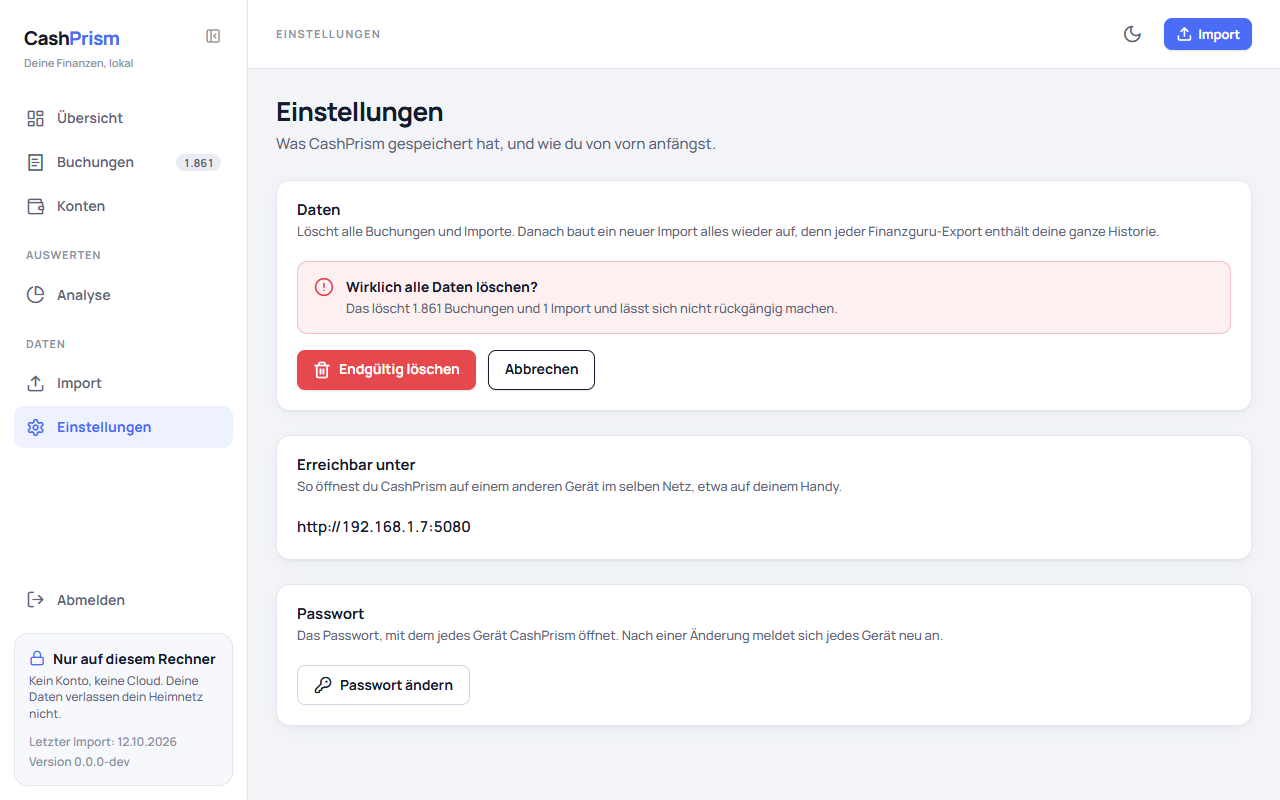
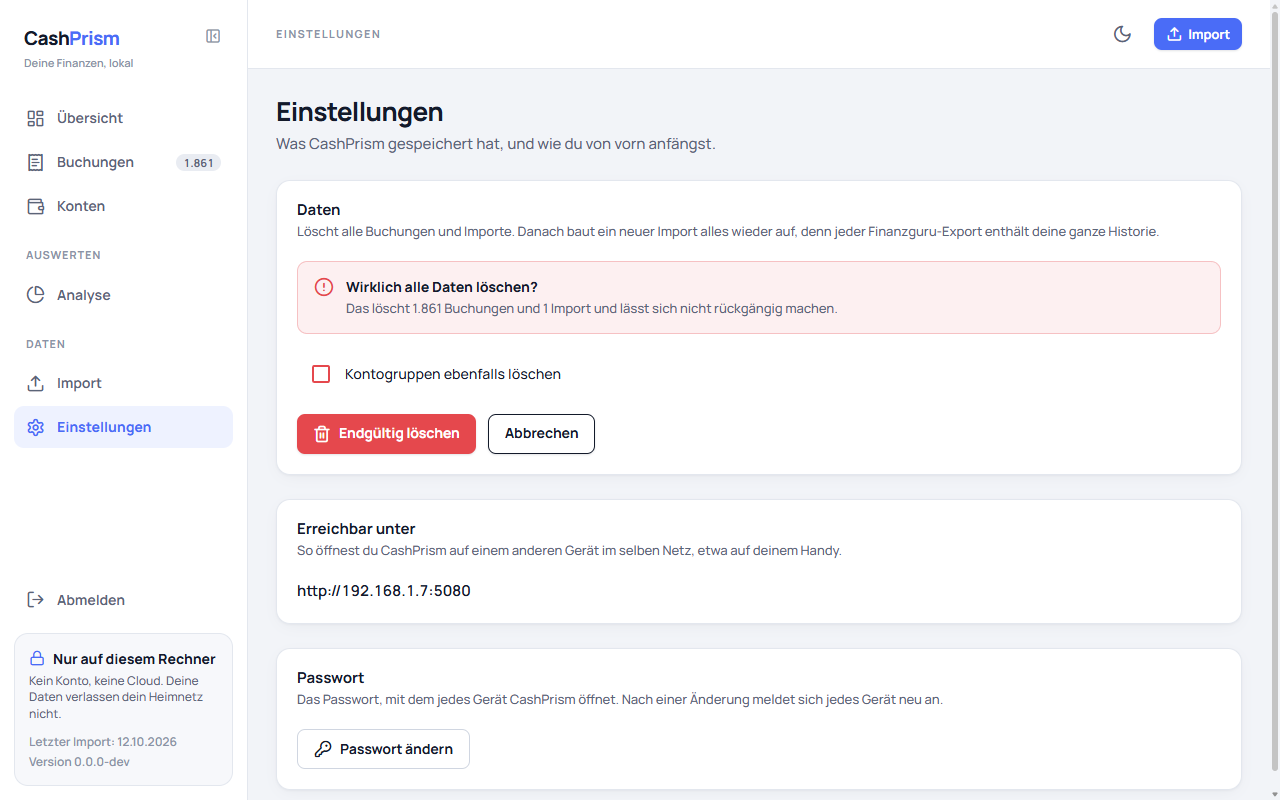
docs: describe account groups (#169)
- Describe the groups and the editor in the user guide
- Describe the checkbox when deleting all data
- Retake konten.png and alle-daten-loeschen.png
- Add kontogruppen.png and its recipe
- Add the changelog entry

diff --git a/docs/benutzung.md b/docs/benutzung.md
@@ -242,7 +242,7 @@ Symbolen ein und wieder auf.
 |---|---|---|
 | Übersicht | `/` | Einnahmen, Ausgaben und wofür das Geld ging — siehe [Die Übersicht](#die-übersicht) |
 | Buchungen | `/bookings` | Alle gespeicherten Buchungen als Liste |
-| Konten | `/accounts` | Deine Konten mit ihren Kontoständen — siehe [Die Konten](#die-konten) |
+| Konten | `/accounts` | Deine Konten mit ihren Kontoständen, in Gruppen deiner Wahl — siehe [Die Konten](#die-konten) |
 | Analyse | `/analysis` | Ausgaben nach Kategorie über mehrere Monate verglichen, dazu nach Empfänger — siehe [Die Analyse](#die-analyse) |
 | Import | `/import` | Einen Finanzguru-Export einlesen, darunter die bisherigen Importe |
 | Einstellungen | `/settings` | Alle gespeicherten Daten löschen, sehen, unter welcher Adresse CashPrism erreichbar ist, Passwort ändern |
@@ -543,18 +543,22 @@ Filtern und steht wie sie in der Adresse, etwa `/bookings?q=rewe`.
 
 ## Die Konten
 
-![Die Konten: links die Kontokarten, das ausgewählte Konto blau, rechts sein Kontostand und seine letzten Buchungen](images/benutzung/konten.png)
+![Die Konten: links die Kontokarten in zwei Gruppen, jede mit ihrer Summe, das ausgewählte Konto blau, rechts sein Kontostand und seine letzten Buchungen](images/benutzung/konten.png)
 
 *Konten* zeigt jedes Konto aus deinem Finanzguru-Export mit seinem Kontostand.
 Darüber steht, wo deine Konten zusammen stehen, etwa *Deine 7 Konten stehen
 zusammen bei 25.446,00 €*. Ein Kredit zählt mit seinem Minus, die Summe kann
 also negativ sein.
 
-- **Kontokarten:** links, das höchste Guthaben oben. Jede Karte zeigt den Namen
-  des Kontos, wie Finanzguru ihn führt, die letzten vier Stellen der IBAN, etwa
-  `•••• 2051`, und den Kontostand. Ein Klick wählt das Konto aus; die
-  ausgewählte Karte ist blau. Die Auswahl steht in der Adresse, ein Lesezeichen
-  öffnet also dasselbe Konto.
+- **Gruppen:** links stehen deine Konten in Gruppen, jede mit ihrem Namen und
+  der Summe ihrer Kontostände. Am Anfang gibt es eine einzige Gruppe, *Konten*;
+  wie du weitere anlegst, steht unter [Kontogruppen](#kontogruppen).
+- **Kontokarten:** in jeder Gruppe in der Reihenfolge, die du festgelegt hast.
+  Jede Karte zeigt den Namen des Kontos, wie Finanzguru ihn führt, die letzten
+  vier Stellen der IBAN, etwa `•••• 2051`, und den Kontostand. Ein Klick wählt
+  das Konto aus; die ausgewählte Karte ist blau. Die Auswahl steht in der
+  Adresse, ein Lesezeichen öffnet also dasselbe Konto. Ohne Auswahl ist das
+  Konto mit dem höchsten Guthaben ausgewählt.
 - **Das ausgewählte Konto:** rechts, mit Kontostand und dem Tag der letzten
   Buchung. Darunter stehen seine 30 neuesten Buchungen nach Tagen; ein Klick
   öffnet die [Details einer Buchung](#die-buchungsliste). *Alle Buchungen
@@ -575,6 +579,39 @@ neuesten Exports, auch wenn du danach einen älteren importierst.
   Import. Hast du vor dieser Version importiert, erscheinen die Konten mit dem
   nächsten neuen Export. Denselben Export noch einmal zu importieren reicht
   nicht, er wird als bereits importiert erkannt.
+
+### Kontogruppen
+
+![Die Konten mit eingeschaltetem Schalter Gruppen bearbeiten: je Gruppe ein Namensfeld mit Pfeilen und Papierkorb, je Konto eine Gruppenauswahl mit Pfeilen](images/benutzung/kontogruppen.png)
+
+Wie in Finanzguru sortierst du deine Konten in Gruppen, die du selbst benennst,
+etwa *Eigene*, *Gemeinsam* und *Kinder*. Der Export enthält keine Gruppen,
+CashPrism merkt sie sich selbst. Der Schalter *Gruppen bearbeiten* oben rechts
+macht aus der Liste ein Formular:
+
+| Was | Wie |
+|---|---|
+| Gruppe anlegen | Den Namen unter *Neue Gruppe* eintragen und *Gruppe hinzufügen* klicken. Die neue Gruppe steht ganz unten |
+| Gruppe umbenennen | Den Namen im Feld ändern und das Feld verlassen. Ein leerer Name wird nicht übernommen |
+| Gruppe verschieben | Die Pfeile neben dem Namen |
+| Gruppe löschen | Der Papierkorb. Er lässt sich nur bei einer leeren Gruppe anklicken, und nie bei der letzten |
+| Konto in eine andere Gruppe stellen | Die Auswahl *Gruppe* am Konto. Es steht dort dann am Ende |
+| Konto verschieben | Die Pfeile am Konto, innerhalb seiner Gruppe |
+
+Jede Änderung gilt sofort, es gibt nichts zu speichern. Schaltest du den
+Schalter wieder aus, siehst du die Karten in ihrer neuen Ordnung.
+
+- **Neue Konten** aus einem Import stehen am Ende der obersten Gruppe, mehrere
+  neue nach Kontostand, das höchste Guthaben zuerst.
+- **Die Gruppen bleiben**, wenn du [alle Daten löschst](#alle-daten-löschen) und
+  neu importierst: Jedes Konto steht danach wieder, wo es war. Nur wenn du beim
+  Löschen *Kontogruppen ebenfalls löschen* ankreuzt, beginnst du wieder mit der
+  einen Gruppe *Konten*.
+- **Ein Konto, das der neueste Export nicht enthält,** fehlt auch in seiner
+  Gruppe. Bringt ein späterer Export es zurück, steht es wieder an seinem Platz.
+  Eine Gruppe, in der nur solche Konten stehen, gilt als leer und lässt sich
+  löschen; kommt eines dieser Konten dann zurück, steht es am Ende der obersten
+  Gruppe.
 
 ## Bisherige Importe
 
@@ -612,3 +649,9 @@ ist. Rückgängig machen lässt sich das Löschen nicht. Weil auch die bisherige
 Importe verschwinden, nimmt CashPrism danach auch eine Datei an, die es vorher
 schon kannte. Solange nichts gespeichert ist, lässt sich die Schaltfläche nicht
 anklicken.
+
+Deine [Kontogruppen](#kontogruppen) bleiben beim Löschen erhalten: Nach dem
+nächsten Import steht jedes Konto wieder in seiner Gruppe. Kreuzt du in der
+Rückfrage *Kontogruppen ebenfalls löschen* an, verschwinden auch sie, und
+*Konten* beginnt wieder mit der einen Gruppe *Konten*. Das Kreuz ist bei jeder
+Rückfrage zunächst nicht gesetzt.

diff --git a/docs/ui.md b/docs/ui.md
@@ -365,8 +365,8 @@ they left it, rather than at the top of the page. Both moves use Blazor's own
 ## The accounts page
 
 `Pages/Accounts.razor` follows the design's *Konten* (`design/README.md` §3.3)
-as far as the data carries it: a column of account cards, and beside it the
-selected account in a card of its own. The lead names the total of all
+as far as the data carries it: a column of account cards in the person's own
+groups, and beside it the selected account in a card of its own. The lead names the total of all
 balances — *Deine 7 Konten stehen zusammen bei …* — in words that say where the
 accounts stand rather than what a person has, because a loan makes the total
 negative.
@@ -388,6 +388,21 @@ negative.
   transaction list: tile, party, payment reference and amount under a header
   per day, a row opening the [booking sheet](#the-booking-sheet). It is not the
   booking list's table — no columns, no sorting, no pages.
+- **The cards stand in groups**, each under its name and the sum of its
+  balances. The groups are CashPrism's own state — the export carries none —
+  read and changed through `AccountGroupEditor`; a fresh database starts with
+  one, named from `AccountGroupsStart` in the resource file. An account no
+  group holds yet is shown at the end of the topmost group, and that place is
+  stored with the next change.
+- **The switch *Gruppen bearbeiten* turns the column into an editor**,
+  `Accounts/AccountGroupEdit.razor`: a name field, arrows and a delete button
+  per group, a group select and arrows per account, a field to add a group at
+  the bottom. Every control is one change, stored at once and read back, so
+  there is no save button. Arrows and buttons the rules would refuse — the
+  topmost group up, a non-empty or the only group deleted — are disabled; the
+  delete button says why in a tooltip on its wrapper, because a disabled button
+  receives no hover. No drag and drop: arrows work with a keyboard and on a
+  phone alike.
 - **No tab bar yet.** The design's *Überblick* tab needs the account's flows,
   and its balance history needs a measurement first; with *Buchungen* the only
   tab, a plain heading takes its place.
@@ -516,7 +531,10 @@ and nothing happened.
 `Pages/Settings.razor` at `/settings` holds one card today: *Daten*, with
 *Alle Daten löschen*. It deletes every booking, raw row and import run through
 `IDataEraser`, which compacts the SQLite file afterwards (see
-`Persistence/DataEraser.cs`).
+`Persistence/DataEraser.cs`). The account groups stay unless the checkbox
+*Kontogruppen ebenfalls löschen* in the question is ticked; it is unticked
+every time the question is asked, since the groups are the one thing no export
+brings back.
 
 The confirmation is asked inside the card rather than in a dialog: the first
 click turns the button into a danger alert naming how many bookings and import

diff --git a/docs/architecture.md b/docs/architecture.md
@@ -37,7 +37,7 @@ allowed to wire concrete infrastructure to a use case.
 | `src/Tests/CashPrism.Domain.Tests.Unit` | The models and the rules on them: identity, split roles, which import run is the later one, what counts as income and spending |
 | `src/Tests/CashPrism.Infrastructure.Finanzguru.Tests.Unit` | `Infrastructure.Finanzguru` in isolation, without a workbook |
 | `src/Tests/CashPrism.Infrastructure.Finanzguru.Tests.Integration` | The export reader and the import source against a workbook built in code — no binary fixture in the repository |
-| `src/Tests/CashPrism.Infrastructure.Tests.Integration` | The schema and the import store against a throwaway SQLite file: round trips, keys, cascade, that amounts are stored as cents, that the sums the overview and the analysis read add up in SQL, and that the booking list filters and sums there too |
+| `src/Tests/CashPrism.Infrastructure.Tests.Integration` | The schema and the import store against a throwaway SQLite file: round trips, keys, cascade, that amounts are stored as cents, that the sums the overview and the analysis read add up in SQL, that the booking list filters and sums there too, and that the account groups survive deleting the data unless they are deleted with it |
 | `src/Tests/CashPrism.Infrastructure.Tests.Unit` | `Infrastructure` without a database: the password hasher |
 | `src/Tests/CashPrism.Shell.Tests.Integration` | `Shell` end to end, hosting included, and the import through the objects the host actually wires |
 | `src/Tests/CashPrism.Web.Tests.Unit` | `Web` without a host: pages, layout and components rendered with bUnit against test doubles, and the formatting and mapping beside them |
@@ -52,7 +52,8 @@ tests of its own, and carries neither the test SDK nor a runner, so `dotnet
 test` passes over it. Today that is `XlsxTestWorkbook`, which builds a
 Finanzguru-shaped `.xlsx` in memory, `FinanzguruTestRow`, which fills one data
 row of it, and the stand-ins the import use case runs on in a test:
-`FakeImportSource`, `FakeImportStore` and `FixedClock`; `FakeCashFlowReader`,
+`FakeImportSource`, `FakeImportStore` and `FixedClock`; `FakeAccountGroupStore`,
+which keeps the account groups the way the database would; `FakeCashFlowReader`,
 which hands the overview and the analysis fixed sums; and `TestBookings`,
 which builds a booking with plain values for every field a test does not name;
 and `DemoSample`, which embeds the committed demo export

diff --git a/docs/releasing.md b/docs/releasing.md
@@ -170,7 +170,8 @@ and show nothing but invented data:
 | `analyse.png` | *Analyse* with *6 Monate* |
 | `analyse-empfaenger.png` | *Analyse* with *6 Monate*, scrolled down so *Hier geht am meisten hin* fills the page area |
 | `buchungsliste.png` | *Buchungen* with the details of one booking open |
-| `konten.png` | *Konten* as it opens, the account with the highest balance selected |
+| `kontogruppen.png` | *Konten* with *Gruppen bearbeiten* on, after adding the group *Gemeinsam*, putting *Gemeinschaftskonto* into it and moving the group to the top |
+| `konten.png` | *Konten* opened again after that, the account with the highest balance selected |
 | `erreichbar.png` | *Einstellungen*, the address under *Erreichbar unter* replaced by `http://192.168.1.7:5080` in the browser's developer tools |
 | `alle-daten-loeschen.png` | *Einstellungen* after *Alle Daten löschen*, showing the question — not confirmed — with the address replaced as above |
 | `passwort-aendern.png` | *Passwort ändern*, empty |

diff --git a/CHANGELOG.md b/CHANGELOG.md
@@ -45,6 +45,12 @@ releases and the minor version is bumped for every notable change.
   to the booking list filtered to it. The overview leads with the same total.
   Balances are read at import, so after updating they appear with the next new
   export; an account without a single booking in the export is not listed.
+- Accounts can be sorted into groups of your own — own, shared, someone
+  else's — each shown with the sum of its balances. *Gruppen bearbeiten* on the
+  *Konten* page adds, renames, orders and deletes groups and moves accounts
+  between and within them. A new account joins the topmost group. The groups
+  survive deleting all data, so a re-import puts every account back where it
+  was, unless *Kontogruppen ebenfalls löschen* is ticked when deleting.
 
 ## [0.1.0] - 2026-10-10
 
